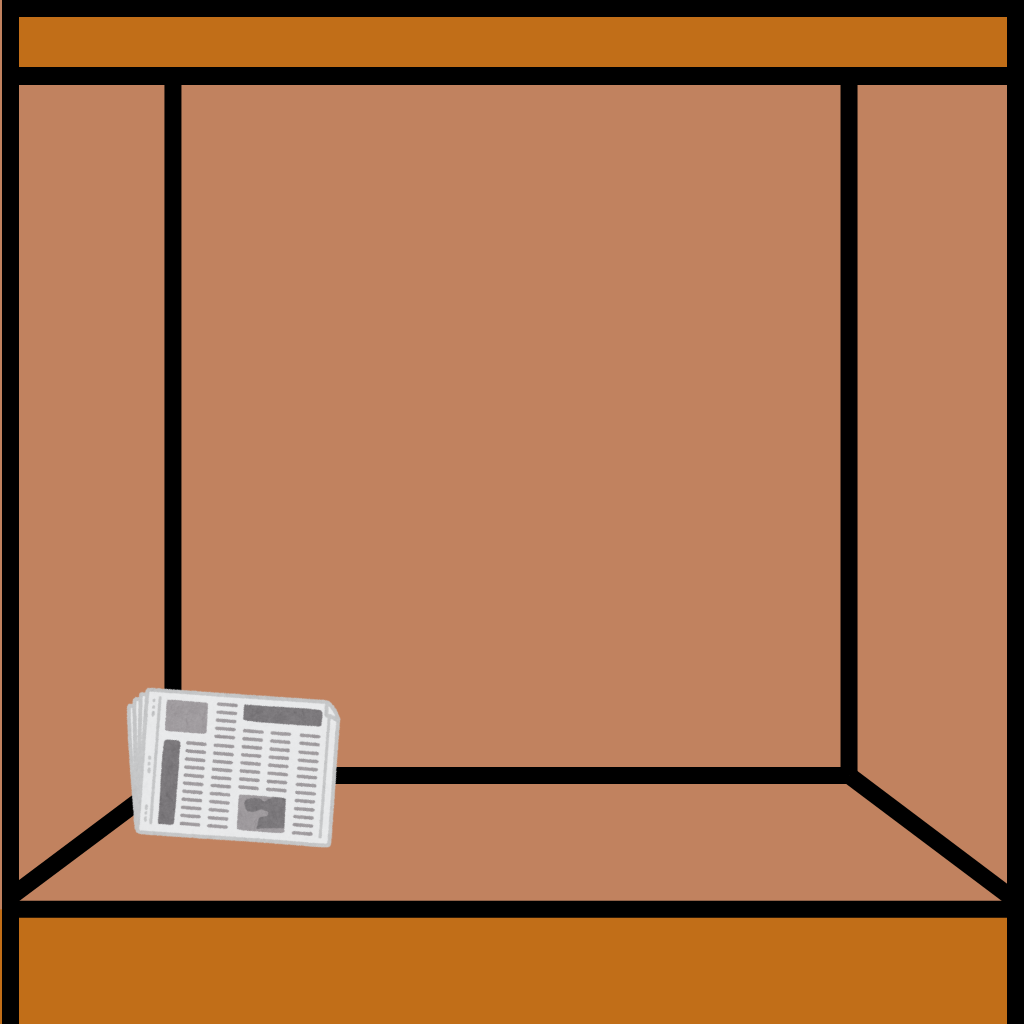
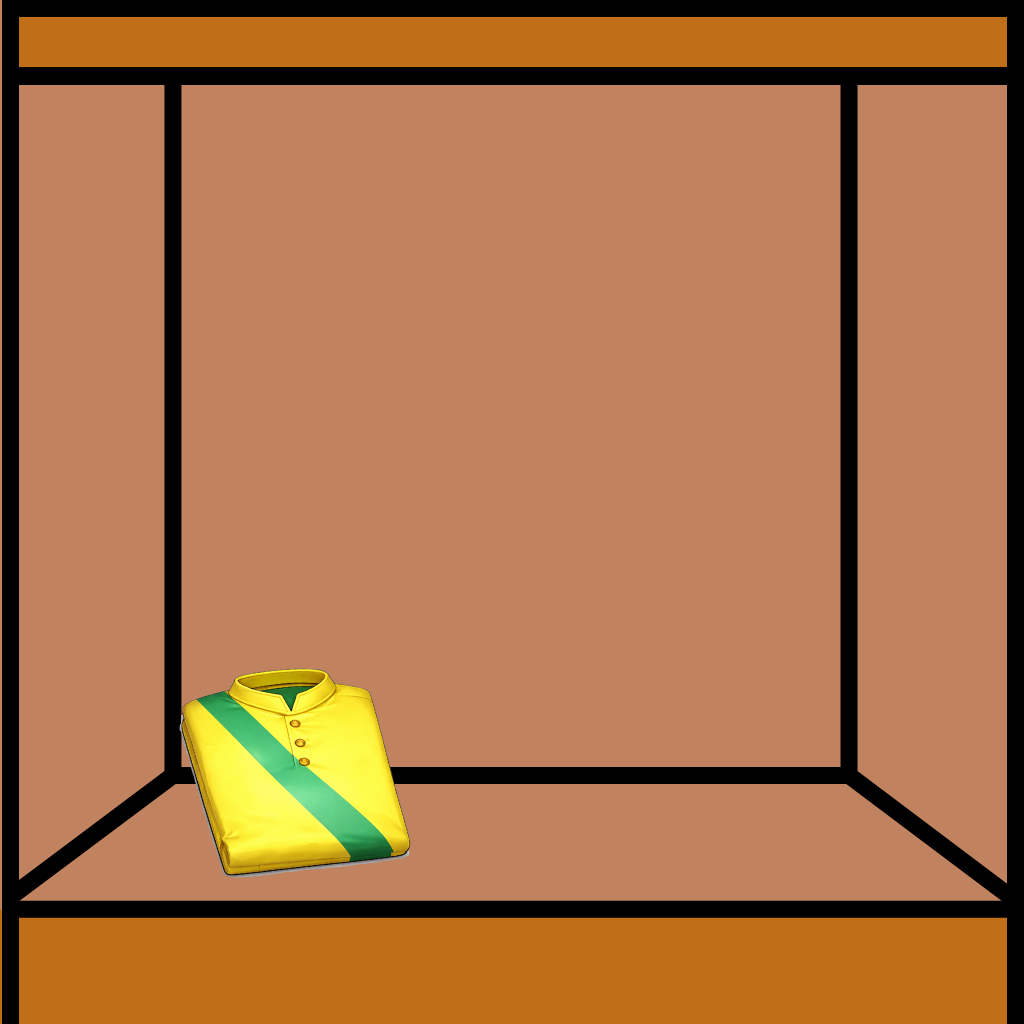
27 add

Changed region(s): [[0.125, 0.625, 0.4062, 0.875]]

diff --git a/escape27.html b/escape27.html
@@ -1340,6 +1340,7 @@
                 elevatorCard: 'images/27/elevator_card.png',
                 key: 'images/27/key.png',
                 water2l: 'images/27/water_2l.png',
+                newsPaperItem: 'images/27/item_newspaper.png',
 
 
 
@@ -1684,6 +1685,16 @@
                         usable: () => true,
                         item: { img: 'IMAGE_KEY', visible: () => true }
                     },
+                    {
+                        x: 73.4, y: 55.3, width: 8.7, height: 8.5,
+                        onClick: clickWrap(function () {
+                            showObj(null, '騎手が行方不明という記事だ', IMAGES.modals.newspaper, '騎手が行方不明という記事だ', IMAGES.modals.newspaperEn);
+                        }),
+                        description: '説明',
+                        zIndex: 5,
+                        usable: () => true,
+                        item: { img: 'newsPaperItem', visible: () => true }
+                    },
 
                     {
                         x: 0, y: 50.6, width: 6.4, height: 6.4,
@@ -1880,11 +1891,11 @@
                 description: '',
                 clickableAreas: [
                     {
-                        x: 11.3, y: 66.5, width: 22.2, height: 16.8,
+                        x: 16.2, y: 65.7, width: 24.4, height: 19.5,
                         onClick: clickWrap(function () {
-                            showObj(null, '騎手が行方不明という記事だ', IMAGES.modals.newspaper, '騎手が行方不明という記事だ', IMAGES.modals.newspaperEn);
+                            updateMessage('騎手のユニフォームだ');
                         }),
-                        description: '新聞',
+                        description: '説明',
                         zIndex: 5,
                         usable: () => true,
                         item: { img: 'IMAGE_KEY', visible: () => true }

diff --git a/index.html b/index.html
@@ -306,6 +306,14 @@
       <a href="escape26_hint.html" style="font-size:0.95rem;color:#d4af37;text-decoration:underline;" target="_blank">info</a>
       <a class="game-link" href="escape26.html" target="_blank">プレイする</a>
     </div>
+    <div class="game-card" data-date="2026-1-27">
+      <img class="game-thumb" src="images/27/main_window.png" alt="特別室サムネイル">
+      <div class="game-title">特別室からの脱出</div>
+      <div class="game-desc">第27作。4END</div>
+      <div class="game-update">2026.1.23 update</div>
+      <a href="escape27_hint.html" style="font-size:0.95rem;color:#d4af37;text-decoration:underline;" target="_blank">info</a>
+      <a class="game-link" href="escape27.html" target="_blank">プレイする</a>
+    </div>
   </div>
 
   <!-- 支援ボタン（既存流用） -->
